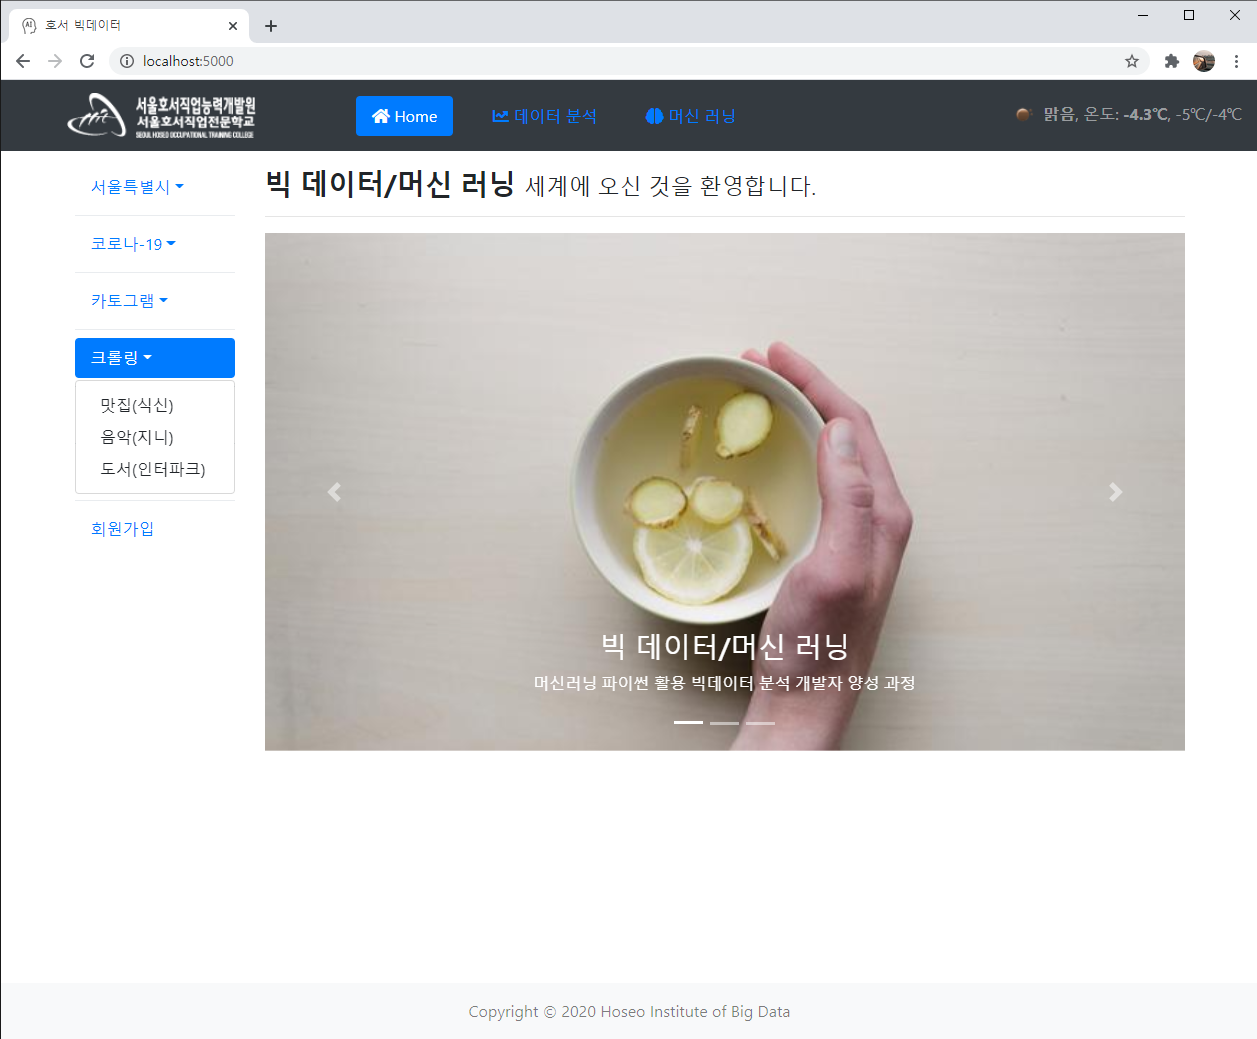
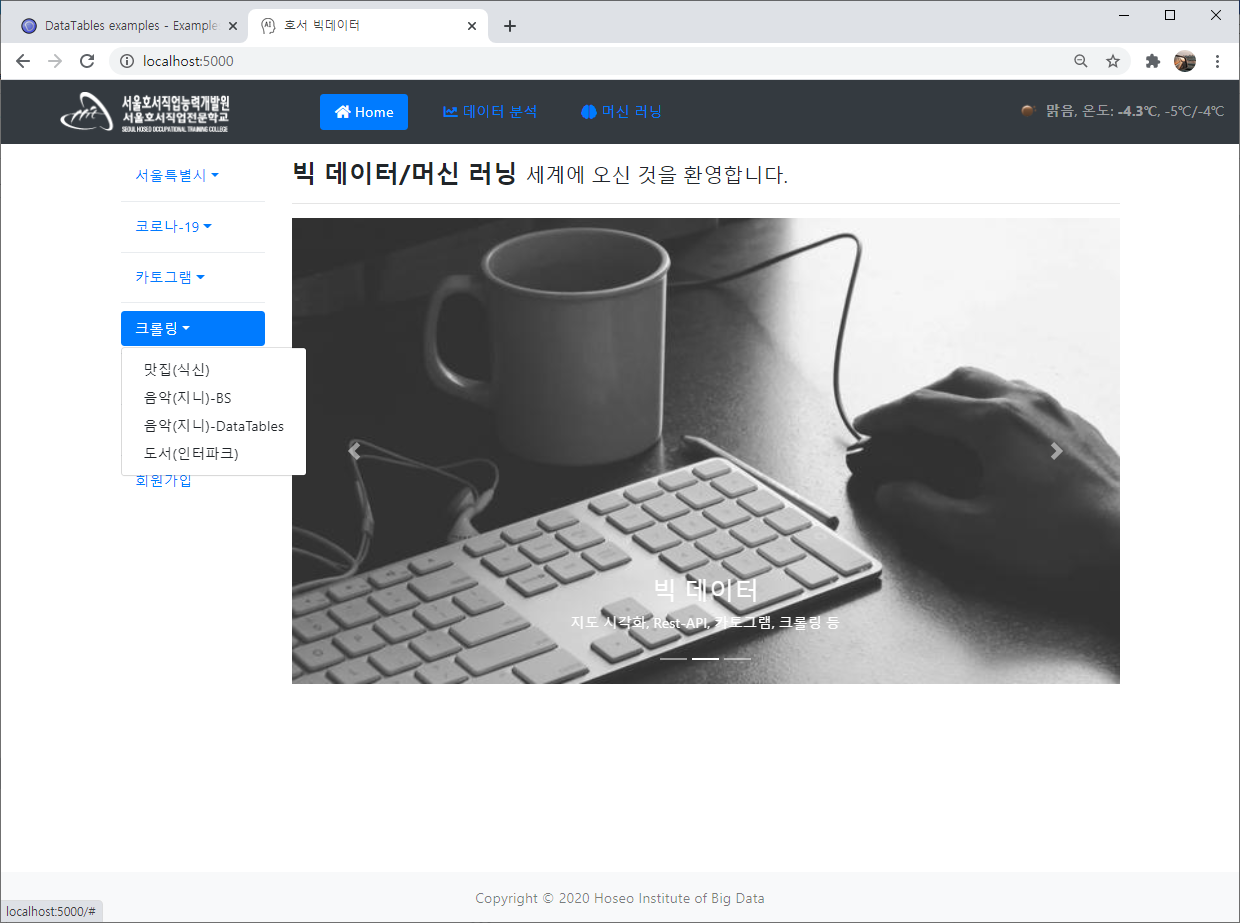
진짜끝201231

diff --git a/03.DataAnalysisModule/templates/crawling/music_jquery.html b/03.DataAnalysisModule/templates/crawling/music_jquery.html
@@ -1,0 +1,74 @@
+{% extends "base.html" %}
+{% block additional_head %}
+ <!-- 제이쿼리 데이터테이블datatables.net/examples/basic_init 참조(페이지네이션,검색어기능,10개씩보기기능) 2줄추가 -->
+    <link rel="stylesheet" href="https://cdn.datatables.net/1.10.22/css/jquery.dataTables.min.css">
+    <script src="https://cdn.datatables.net/1.10.22/js/jquery.dataTables.min.js"></script>
+    <style>
+        th, td {
+            text-align: center;
+        } 
+    </style>
+{% endblock %}
+{% block weather %} {{ weather|safe() }} {% endblock %}
+{% block subtitle %}
+    <small>음악차트(지니 추천) - </small><strong>실시간</strong>
+{% endblock %}
+{% block content %}
+<!-- id="example" class="display compact"부여 -->
+    <table id="example" class="display compact" style="width:100%;">
+        <thead>
+            <tr>
+                <th>index</th><th>No</th><th>Img</th>
+                <th>곡명</th><th>아티스트</th><th>앨범</th>
+            </tr>
+        </thead>
+        <tbody>
+            {% for music in music_list %}
+                <tr>
+                    <td>{{music.index}}</td>
+                    <td>{{music.rank|safe}}</td>
+                    <td>
+                        <img src="{{music.img}}" alt="앨범 이미지" width="48" height="48">
+                    </td>
+                    <td>{{music.title}}</td>
+                    <td>{{music.artist}}</td>
+                    <td>{{music.album}}</td>
+                </tr>
+            {% endfor %}
+        </tbody>
+    </table>            
+{% endblock %}
+{% block additional_body %} 
+<!-- 옵션부분이라 아무것도안해도 다 있음; 단지 영어이고, 색상빠지는것뿐; DataTable~모두보기;까지옵션! -->
+    <script>
+        $(document).ready(function() {
+            $('#example').DataTable({
+                info: false,
+                searching: true,
+                paging: true,
+                ordering: false,
+                //order: [[ 0, "asc" ]],
+                columnDefs: [{
+                    "targets": [ 0 ],
+                    "visible": false,
+                    "searchable": false
+                }],
+                language: {
+                    thousands: ',',
+                    search: '',
+                    searchPlaceholder: "검색어",
+                    paginate: {
+                        first: '처음',
+                        previous: '이전',
+                        next: '다음',
+                        last: '마지막',
+                    }
+                },
+                oLanguage: {
+                    sLengthMenu: "_MENU_",
+                },
+                "lengthMenu": [[10, -1], ["10개씩 보기", "모두 보기"]]
+            });
+        } );
+    </script>
+{% endblock %}

diff --git a/03.DataAnalysisModule/templates/base.html b/03.DataAnalysisModule/templates/base.html
@@ -95,7 +95,8 @@
                            data-toggle="dropdown" href="#">크롤링</a>
                         <div class="dropdown-menu">
                             <a class="dropdown-item" href="/crawling/food">맛집(식신)</a>
-                            <a class="dropdown-item" href="/crawling/music">음악(지니)</a>
+                            <a class="dropdown-item" href="/crawling/music">음악(지니)-BS</a>
+                            <a class="dropdown-item" href="/crawling/music_jquery">음악(지니)-DataTables</a>
                             <a class="dropdown-item" href="/crawling/book">도서(인터파크)</a>
                         </div>
                     </li>

diff --git a/03.DataAnalysisModule/my_util/crawl_util.py b/03.DataAnalysisModule/my_util/crawl_util.py
@@ -38,7 +38,8 @@ def genie():
     trs = soup.select_one('.list-wrap').find('tbody').select('tr.list')
 
     music_list = []
-    for tr in trs:
+    # 인덱스추가한이유; 순위넘버의 순위정렬하면 스트링으로 되어 1 10 11 12되버려서
+    for index, tr in enumerate(trs):
         num = tr.select_one('.number').get_text()
         rank = f'<strong>{num.split()[0]}</strong>'
         last = num.split()[1]
@@ -52,7 +53,7 @@ def genie():
         artist = tr.select_one('a.artist').string
         album = tr.select_one('a.albumtitle').string
         img = 'https:' + tr.select_one('a.cover').find('img').attrs['src']
-        music_list.append({'rank': rank, 'title': title, 'artist': artist,
+        music_list.append({'index': index, 'rank': rank, 'title': title, 'artist': artist,
                            'album': album, 'img': img})
     return music_list
 

diff --git a/03.DataAnalysisModule/bp4_crawling/crawl.py b/03.DataAnalysisModule/bp4_crawling/crawl.py
@@ -46,6 +46,15 @@ def music():
                            music_list=music_list)
 
 
+@crawl_bp.route('/music_jquery')
+def music_jquery():
+    menu = {'ho': 0, 'da': 1, 'ml': 0, 'se': 0,
+            'co': 0, 'cg': 0, 'cr': 1, 'st': 0, 'wc': 0}
+    music_list = cu.genie()
+    return render_template('crawling/music_jquery.html', menu=menu, weather=get_weather(),
+                           music_list=music_list)
+
+
 @crawl_bp.route('/book')
 def book():
     menu = {'ho': 0, 'da': 1, 'ml': 0, 'se': 0,
